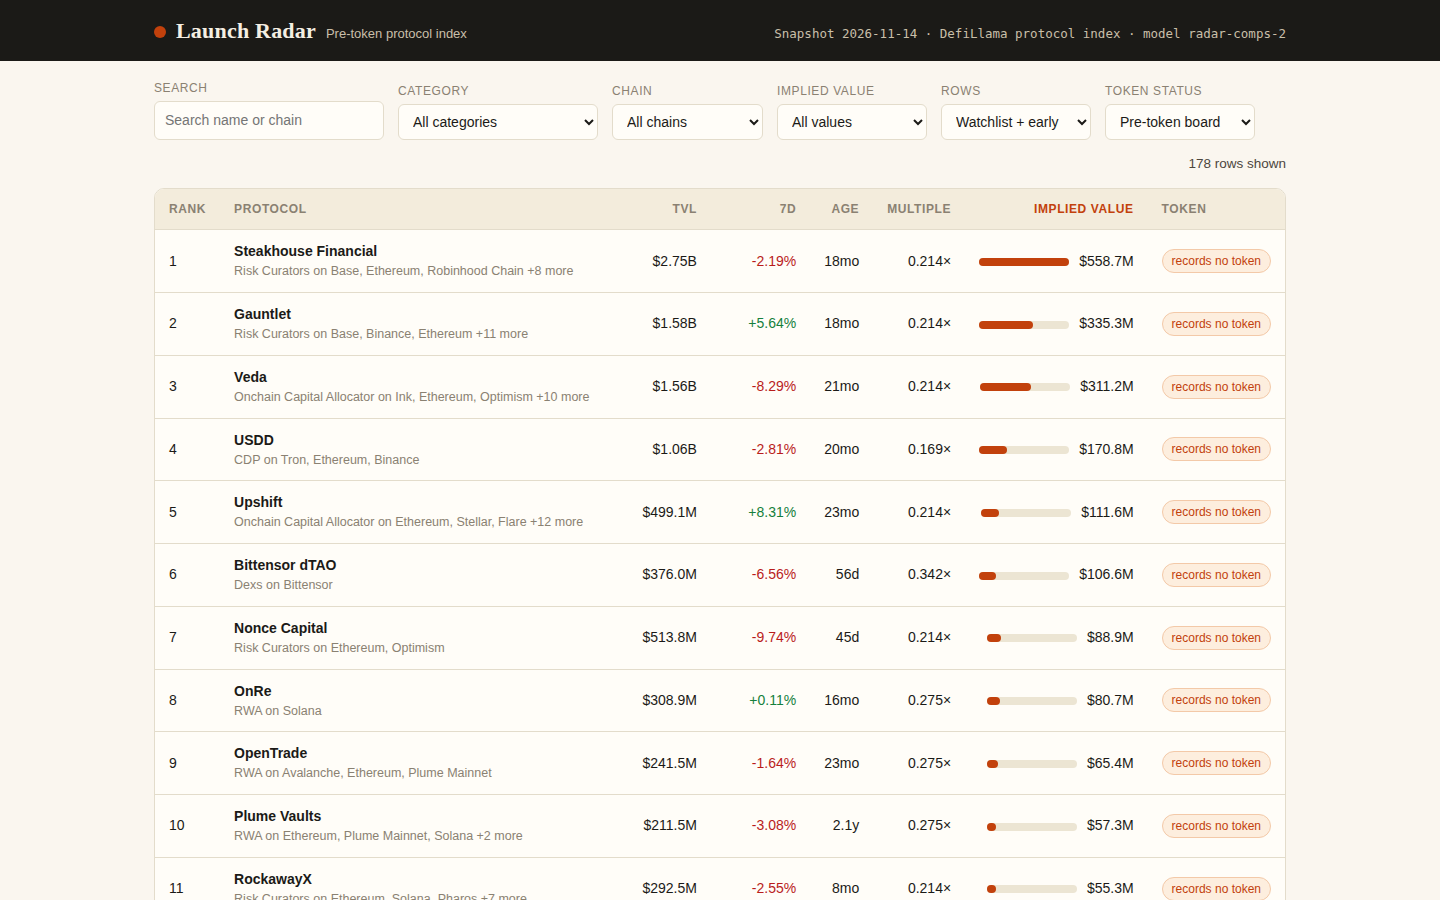
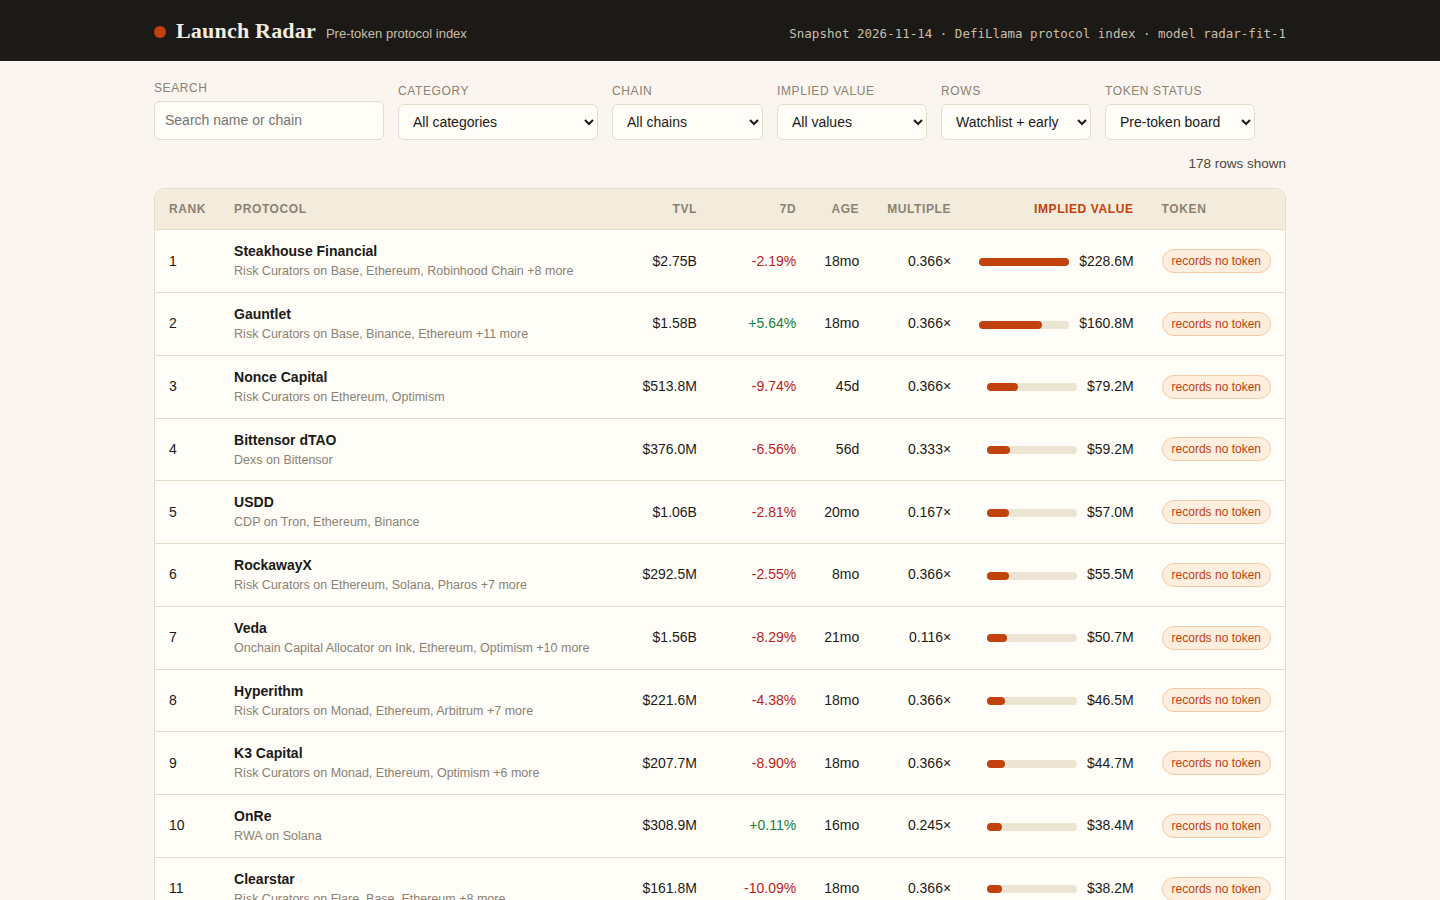
Dashboard: validation panel, fitted breakdown, new screenshots
Method section states the fitted formula with the runtime-fitted
numbers; new validation panel with the CV table (A-G), the residual
SD and interval, the growth/age explanation with the fitted numbers,
and the thin-category disclosure. Category table shows the shrunk
multiple and cleaned peer count per category plus the global row
(0.2406x, 88 peers). Detail view shows size factor, the 80%
interval and the x1.0000 growth/tenure multipliers. Screenshots
regenerated from the new output (board 1440x900, detail 1440x1400,
filtered 1440x900).

diff --git a/dashboard/index.html b/dashboard/index.html
@@ -17,7 +17,7 @@
 <main>
   <section class="hero">
     <h1>Every protocol still waiting on its token, ranked by what the launch would be worth.</h1>
-    <p class="lede">The board starts from the forty protocols with at least $50M of TVL that record no token, then adds every smaller launch candidate the snapshot holds. Each one is valued from its own figures — its TVL, its seven-day growth, and how long it has run with no token — against the launched protocols in its own category. Implied value is this entry&rsquo;s own claim, never a price, and never a prediction of whether or when a token is issued.</p>
+    <p class="lede">The board starts from the forty protocols with at least $50M of TVL that record no token, then adds every smaller launch candidate the snapshot holds. Each one is valued from its own figures — its TVL, its category&rsquo;s fitted multiple, and a size factor — against the 88 launched protocols that pass the same comparability rules. Seven-day growth and age are shown for every row but carry no weight: the fitted evidence says they do not predict the multiple (see Validation). Implied value is this entry&rsquo;s own claim, never a price, and never a prediction of whether or when a token is issued.</p>
     <p class="honest">Honest language: a protocol &ldquo;records no token&rdquo; when the snapshot records none for it. That is not proof it has none.</p>
   </section>
 
@@ -25,11 +25,35 @@
 
   <section class="method" id="method">
     <h2>How the value is worked out</h2>
-    <p>Implied value = TVL &times; comparable multiple &times; growth multiplier &times; tenure multiplier. The comparable multiple is the median market-cap / TVL of the launched protocols in the same category — at least three launched peers, or the market-wide median when a category has fewer. Growth is the seven-day TVL change, clamped to &minus;50% … +100% and weighted 0.6. Tenure runs from 0.85 for a protocol tracked a day to 1.15 for one tracked four years with no token. The same function scores every row; no protocol name is ever special-cased.</p>
+    <p>Implied value = TVL &times; shrunk category multiple &times; size factor. The category multiple is the shrunk log-mean of market-cap / TVL over the cleaned comparable peers in that category — log-ratios clipped to [&minus;4, +2], shrunk toward the global log-mean with k = 5 — and the size factor is exp(slope &times; (log TVL &minus; TVL centre)). Both are fitted at runtime from the sealed snapshot&rsquo;s own launched protocols, not set by hand. The same function scores every row; no protocol name is ever special-cased.</p>
+    <p class="fitline" id="fit-line"></p>
     <table class="multiples" id="multiples">
-      <thead><tr><th>Category</th><th>Comparable multiple</th><th>Launched peers</th><th>Source</th></tr></thead>
+      <thead><tr><th>Category</th><th>Comparable multiple</th><th>Cleaned peers</th><th>Source</th></tr></thead>
       <tbody></tbody>
     </table>
+  </section>
+
+  <section class="validation" id="validation">
+    <h2>Validation — how well this fits, and how wrong it can be</h2>
+    <p>Fitted and validated on the sealed 2026-11-14 snapshot only: 128 launched protocols with a market cap and a TVL. Five-fold cross-validation (protocol-level folds, crc32(slug) % 5, every fit retrained on the train fold only) scores each model out of sample on log(market-cap / TVL).</p>
+    <table class="cv">
+      <thead><tr><th>Model</th><th class="num">log-RMSE</th><th class="num">log-MAE</th><th class="num">Median APE</th><th class="num">80% cover</th></tr></thead>
+      <tbody>
+        <tr><td>A — v1 radar-comps-2</td><td class="num">2.386</td><td class="num">1.788</td><td class="num">91.9%</td><td class="num">0.852</td></tr>
+        <tr><td>B — OLS, logTVL + growth + age</td><td class="num">2.177</td><td class="num">1.670</td><td class="num">88.9%</td><td class="num">0.828</td></tr>
+        <tr><td>C — OLS + category dummies</td><td class="num">2.280</td><td class="num">1.726</td><td class="num">92.4%</td><td class="num">0.820</td></tr>
+        <tr><td>D — cleaned shrunk log-mean</td><td class="num">2.273</td><td class="num">1.769</td><td class="num">89.6%</td><td class="num">0.852</td></tr>
+        <tr><td>E — D + OLS features</td><td class="num">2.186</td><td class="num">1.662</td><td class="num">87.1%</td><td class="num">0.812</td></tr>
+        <tr><td>F — D + logTVL slope</td><td class="num">2.104</td><td class="num">1.597</td><td class="num">84.6%</td><td class="num">0.828</td></tr>
+        <tr class="adopted"><td><b>G — winsorized F (this entry)</b></td><td class="num"><b>2.106</b></td><td class="num"><b>1.604</b></td><td class="num"><b>86.3%</b></td><td class="num"><b>0.836</b></td></tr>
+        <tr><td>Naive global median</td><td class="num">2.277</td><td class="num">—</td><td class="num">—</td><td class="num">—</td></tr>
+      </tbody>
+    </table>
+    <p>The fitted model beats v1 out of sample (log-RMSE 2.106 vs 2.386; paired MSE difference +1.260 &plusmn; 0.428, t = +2.94) and beats the naive global median (2.277). Model F is statistically identical (paired MSE &minus;0.008 &plusmn; 0.081, t = &minus;0.10); G is adopted because winsorizing caps the thin-category fragility — the highest effective multiple on the board is 0.922&times;, where the unwinsorized fit reaches 1.633&times; on a single-peer category.</p>
+    <p>Every row carries an 80% interval of &times;0.075–&times;13.3 around its implied value, from the out-of-sample residual SD of 2.016 log units on comparable protocols. The interval is wide because the multiple is genuinely hard to predict: log(market-cap / TVL) spans 14 log-units across launched protocols, and the features jointly explain little (in-sample R&sup2; 0.186). The interval is honesty about that, not precision.</p>
+    <h3>Why growth and age carry no weight</h3>
+    <p>Seven-day growth and tenure are shown for every row, but both multipliers are 1.0000. The fitted evidence: the growth slope is &minus;3.82, but it falls to &minus;0.31 when the five highest-ratio protocols are dropped — the two highest ratios (rain 400&times;, nexo 69&times;) both have a 7-day TVL change of about &minus;37%, a denominator artefact of a collapsing TVL, and the association points the wrong way (fast growth would be rewarded). Age has no measurable effect: its correlation with the log-ratio is +0.002, and its fitted slope is &asymp; 0 once the five highest ratios are dropped (&minus;0.25 &rarr; &minus;0.00). Keeping the old hand multipliers would assert what the data contradicts.</p>
+    <p>Thin categories: Risk Curators — ranks #1–3, #6, #8–9, #11, #13 — rests on exactly one comparable peer (api3, 2.975&times;), and 89 of 178 rows sit in categories with two or fewer comparable peers. Shrinkage (k = 5) and winsorizing bound the damage, but the peer count next to every multiple above is the honest view of it.</p>
   </section>
 
   <section class="controls" aria-label="Filters">

diff --git a/dashboard/app.js b/dashboard/app.js
@@ -48,12 +48,21 @@
     stat(D.live_size, 'Live-token protocols set aside');
   function stat(b, label) { return '<div class="stat"><b>' + esc(b) + '</b><span>' + esc(label) + '</span></div>'; }
 
-  /* Comparables table. */
+  /* Fitted numbers, computed at runtime from the sealed snapshot. */
+  var fit = D.fit;
+  document.getElementById('fit-line').textContent =
+    'Fitted at runtime from the snapshot: global log-mean ' + fit.global_log_mean.toFixed(3) +
+    ' (multiple ' + fit.global_multiple.toFixed(4) + '×) · TVL centre ' + fit.tvl_center.toFixed(3) +
+    ' · logTVL slope ' + fit.slope.toFixed(3) + ' · ' + fit.comparable_peers + ' comparable peers of ' +
+    fit.launched_peers + ' launched · 80% interval ×' + fit.interval_low.toFixed(3) + '–×' +
+    fit.interval_high.toFixed(1) + ' (out-of-sample residual SD ' + fit.interval_sd.toFixed(3) + ' log units).';
+
+  /* Comparables table: the shrunk multiple and the cleaned peer count per category. */
   var multBody = document.querySelector('#multiples tbody');
   multBody.innerHTML = D.category_multiples.map(function (c) {
     return '<tr><td>' + esc(c.category) + '</td><td class="num">' + c.multiple.toFixed(3) + '×</td><td class="num">' + c.peers + '</td><td>' +
-      (c.source === 'category' ? 'Own category' : 'Market-wide fallback') + '</td></tr>';
-  }).join('') + '<tr><td><b>Market-wide</b></td><td class="num"><b>' + D.market_multiple.toFixed(3) + '×</b></td><td class="num">' + D.market_peers + '</td><td>All launched protocols</td></tr>';
+      (c.source === 'category' ? 'Own category, shrunk' : 'Global mean — no cleaned peer') + '</td></tr>';
+  }).join('') + '<tr><td><b>Global</b></td><td class="num"><b>' + D.market_multiple.toFixed(3) + '×</b></td><td class="num">' + D.market_peers + '</td><td>All cleaned comparable peers</td></tr>';
 
   /* Filter selects. */
   function fillSelect(id, values) {
@@ -168,8 +177,8 @@
     if (!r) { el.innerHTML = '<p class="detail-empty">Select a row to see its model breakdown and farm plan.</p>'; return; }
     var m = r.model;
     var multNote = m.multiple_source === 'category'
-      ? 'median of ' + m.multiple_peers + ' launched peers in ' + (r.category || 'this category')
-      : 'market-wide median — ' + (r.category || 'this category') + ' has fewer than ' + D.model.peer_min + ' launched peers';
+      ? 'shrunk mean of ' + m.multiple_peers + ' cleaned comparable peer' + (m.multiple_peers === 1 ? '' : 's') + ' in ' + (r.category || 'this category')
+      : 'global mean — ' + (r.category || 'this category') + ' has no cleaned comparable peer';
     el.innerHTML = '<div class="detail-card">' +
       '<div class="detail-rank">Rank ' + r.rank + ' of ' + D.board_size + ' · ' + (watch[r.slug] ? 'on the watchlist' : 'early row, below the floor') + '</div>' +
       '<h2>' + esc(r.name) + '</h2>' +
@@ -178,11 +187,13 @@
       '<table class="factors">' +
       '<tr><td>TVL</td><td>' + money(r.tvl_usd) + '</td></tr>' +
       '<tr><td>Comparable multiple</td><td>' + m.category_multiple.toFixed(3) + '× <span class="fnote">' + esc(multNote) + '</span></td></tr>' +
-      '<tr><td>Seven-day growth</td><td>' + pct(r.change_7d) + ' → ×' + m.growth_multiplier.toFixed(4) + '</td></tr>' +
-      '<tr><td>Age with no token</td><td>' + ageFmt(r.age_days) + ' → ×' + m.tenure_multiplier.toFixed(4) + '</td></tr>' +
+      '<tr><td>Size factor</td><td>×' + m.size_factor.toFixed(4) + ' <span class="fnote">exp(slope × (log TVL − centre))</span></td></tr>' +
+      '<tr><td>Seven-day growth</td><td>' + pct(r.change_7d) + ' → ×' + m.growth_multiplier.toFixed(4) + ' <span class="fnote">weight 0 — see Validation</span></td></tr>' +
+      '<tr><td>Age with no token</td><td>' + ageFmt(r.age_days) + ' → ×' + m.tenure_multiplier.toFixed(4) + ' <span class="fnote">weight 0 — see Validation</span></td></tr>' +
+      '<tr><td>80% interval</td><td>' + money(r.implied_low_usd) + ' – ' + money(r.implied_high_usd) + '</td></tr>' +
       '<tr class="total"><td>Implied value</td><td>' + money(r.implied_value_usd) + '</td></tr>' +
       '</table>' +
-      '<p class="fnote" style="font-size:12.5px;color:var(--ink-faint)">Model ' + esc(D.model_version) + ': TVL × comparable multiple × growth multiplier × tenure multiplier. board.json carries this row as ' + money(r.implied_value_usd) + '. This is an estimate, not a price.</p>' +
+      '<p class="fnote" style="font-size:12.5px;color:var(--ink-faint)">Model ' + esc(D.model_version) + ': TVL × shrunk category multiple × size factor. board.json carries this row as ' + money(r.implied_value_usd) + ', with an 80% interval of ' + money(r.implied_low_usd) + ' – ' + money(r.implied_high_usd) + '. This is an estimate, not a price.</p>' +
       '</div><div><h3>Farm plan</h3><ol class="farm">' +
       r.farm_steps.map(function (s) {
         var parts = s.split(' Cost: ');

diff --git a/dashboard/app.css b/dashboard/app.css
@@ -152,8 +152,19 @@ main { max-width: 1180px; margin: 0 auto; padding: 0 24px 48px; }
 .live-table tbody tr { cursor: default; }
 .live-table tbody tr:hover { background: none; }
 .foot { margin-top: 34px; padding-top: 16px; border-top: 1px solid var(--line); font-size: 13px; color: var(--ink-faint); }
+/* Validation panel: the fitted formula's evidence, readable without running anything. */
+.validation { padding: 26px 0 6px; border-top: 1px solid var(--line); margin-top: 18px; }
+.validation h2 { font-family: var(--serif); font-size: 24px; margin: 0 0 8px; }
+.validation h3 { font-family: var(--serif); font-size: 19px; margin: 18px 0 6px; }
+.validation p { color: var(--ink-soft); max-width: 900px; margin: 0 0 12px; }
+.fitline { font-family: var(--mono); font-size: 13px; color: var(--ink-soft); background: var(--card); border: 1px solid var(--line); border-radius: 6px; padding: 10px 12px; }
+.cv { width: 100%; border-collapse: collapse; font-size: 13.5px; margin-bottom: 12px; }
+.cv th, .cv td { text-align: left; padding: 6px 10px; border-bottom: 1px solid var(--line); }
+.cv th { font-size: 12px; text-transform: uppercase; letter-spacing: .05em; color: var(--ink-faint); }
+.cv td.num, .cv th.num { text-align: right; font-variant-numeric: tabular-nums; }
+.cv tr.adopted td { background: var(--signal-soft); }
 /* A routed view (board / detail / filter) hides the intro, so the view sits at the top. */
-body.routed .hero, body.routed .stats, body.routed .method { display: none; }
+body.routed .hero, body.routed .stats, body.routed .method, body.routed .validation { display: none; }
 body.routed .controls { margin-top: 0; border-top: none; padding-top: 18px; }
 @media (max-width: 760px) {
   .stats { grid-template-columns: repeat(2, 1fr); }
